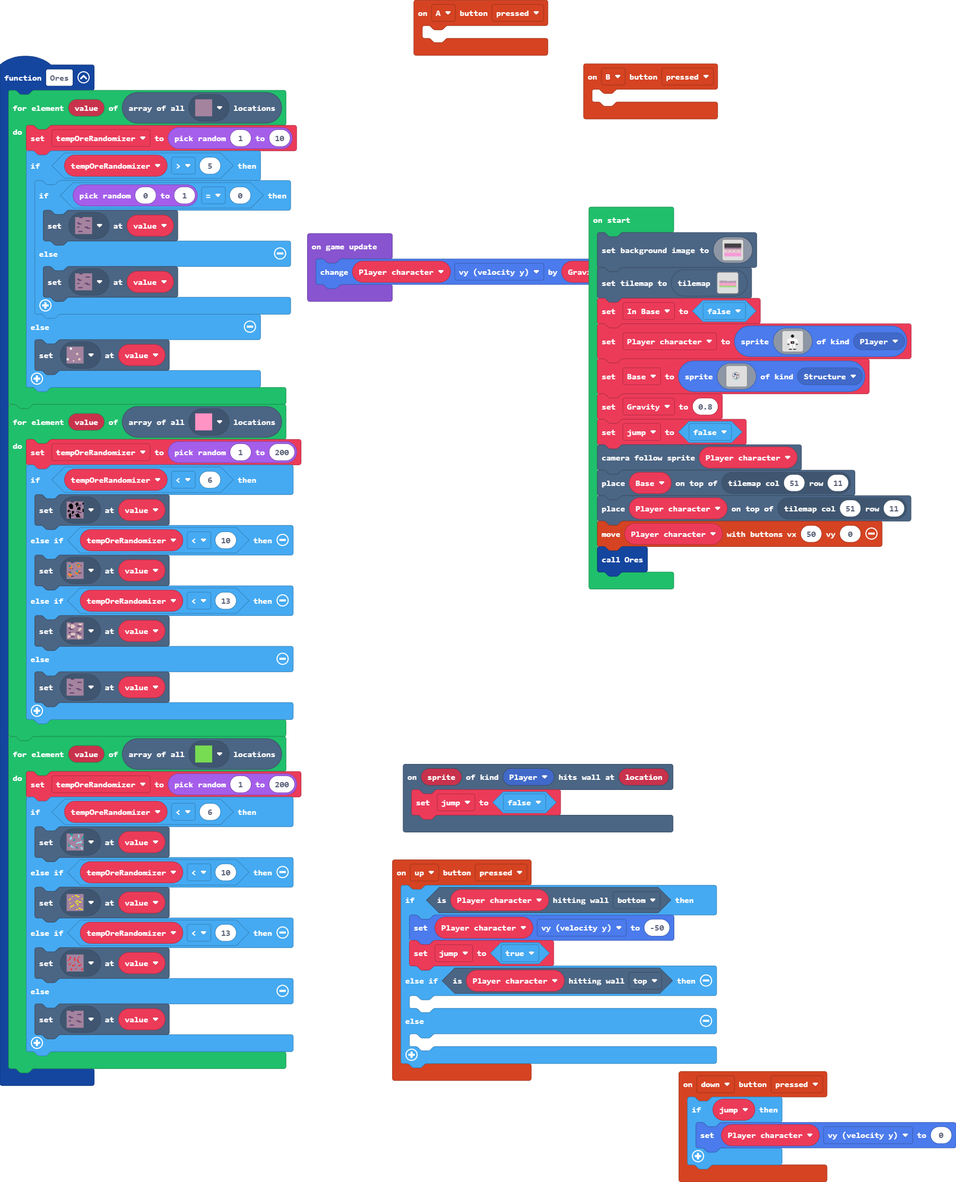
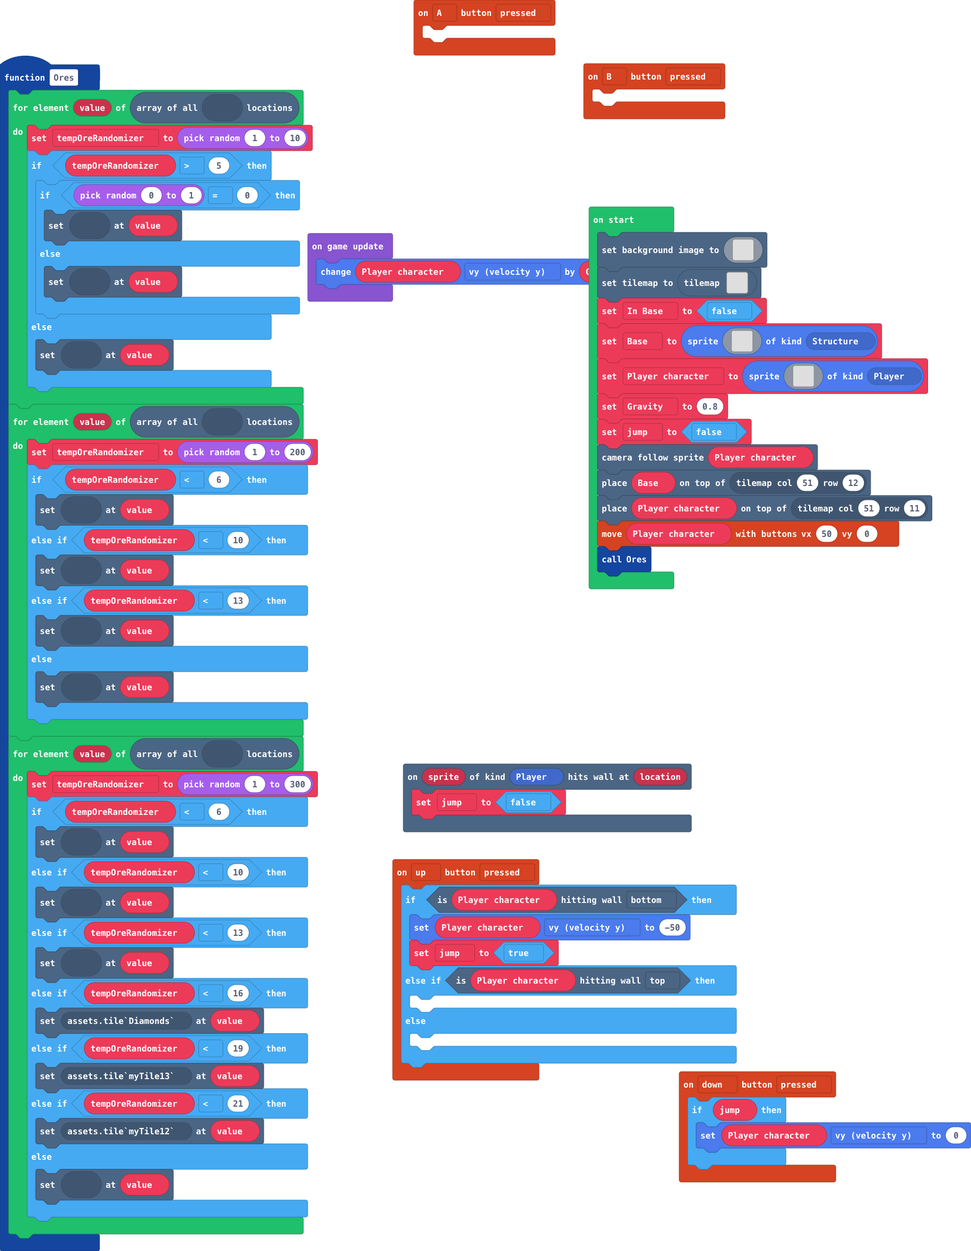
Update main.blocks, main.ts, tilemap.g.jres, tilemap.g.ts

diff --git a/tilemap.g.ts b/tilemap.g.ts
@@ -32,16 +32,6 @@ namespace myTiles {
     export const tile17 = image.ofBuffer(hex``);
     //% fixedInstance jres blockIdentity=images._tile
     export const tile8 = image.ofBuffer(hex``);
-    //% fixedInstance jres blockIdentity=images._tile
-    export const tile13 = image.ofBuffer(hex``);
-    //% fixedInstance jres blockIdentity=images._tile
-    export const tile14 = image.ofBuffer(hex``);
-    //% fixedInstance jres blockIdentity=images._tile
-    export const tile18 = image.ofBuffer(hex``);
-    //% fixedInstance jres blockIdentity=images._tile
-    export const tile19 = image.ofBuffer(hex``);
-    //% fixedInstance jres blockIdentity=images._tile
-    export const tile20 = image.ofBuffer(hex``);
 
     helpers._registerFactory("tilemap", function(name: string) {
         switch(helpers.stringTrim(name)) {
@@ -98,7 +88,7 @@ namespace myTiles {
 ..............................
 `, [myTiles.transparency16], TileScale.Sixteen);
             case "Planet part 1":
[1 lines of base64/hex data omitted]
+            case "level2":return tiles.createTilemap(hex`640032000000000000000000000000000000000000000000000000000000000000000000000000000000000000000000000000000000000000000000000000000000000000000000000000000000000000000000000000000000000000000000000000000000000000000000000000000000000000000000000000000000000000000000000000000000000000000000000000000000000000000000000000000000000000000000000000000000000000000000000000000000000000000000000000000000000000000000000000000000000000000000000000000000000000000000000000000000000000000000000000000000000000000000000000000000000000000000000000000000000000000000000000000000000000000000000000000000000000000000000000000000000000000000000000000000000000000000000000000000000000000000000000000000000000000000000000000000000000000000000000000000000000000000000000000000000000000000000000000000000000000000000000000000000000000000000000000000000000000000000000000000000000000000000000000000000000000000000000000000000000000000000000000000000000000000000000000000000000000000000000000000000000000000000000000000000000000000000000000000000000000000000000000000000000000000000000000000000000000000000000000000000000000000000000000000000000000000000000000000000000000000000000000000000000000000000000000000000000000000000000000000000000000000000000000000000000000000000000000000000000000000000000000000000000000000000000000000000000000000000000000000000000000000000000000000000000000000000000000000000000000000000000000000000000000000000000000000000000000000000000000000000000000000000000000000000000000000000000000000000000000000000000000000000000000000000000000000000000000000000000000000000000000000000000000000000000000000000000000000000000000000000000000000000000000000000000000000000000000000000000000000000000000000000000000000000000000000000000000000000000000000000000000000000000000000000000000000000000000000000000000000000000000000000000000000000000000000000000000000000000000000000000000000000000000000000000000000000000000000000000000000000000000000000000000000000000000000000000000000000000000000000000000000000000000000000000000000000000000000000000000000000000000000000000000000000000000000000000000000000000000000000000000000000000000000000000000000000000000000000000000000000000000000000000000000000000000000000000000000000000000000000102020202020203000000000000000000000000000000000000000000000000000000000000000000000000000000000000000000000000000000000000000000000000000000000000000000000000000000000102020000000000000102020202020204040404040404040202020202020202020203000000000000000102020300000000000000000000000000000000000000000000000000000000000102030000000000000000000000000000000000000202020204040400000000000104040404040404040404040404040404040404040404040404040202020202020204040404030000000000000000000000000000000000000000000000010202020204040402020202020300000000000001020202020404040404040404020202020204040404040404040404040404040404040404040404040404040404040404040404040404040402020202020202020202020202020202030000000000010404040404040404040404040404020202020202040404040404040404040404040404040404040404040404040404040404040404040404040404040404040404040404040404040404040404040404040404040404040404040404040402020202020404040404040404040404040404040404040404040404040404040404040404040404040404040404040404040404040404040404040404040404040404040404040404040404040404040404040404040404040404040404040404040404040404040404040404040404040404040404040404040404040404040404080404040404040404040404040404040404040404040404040404040404040404040404040404040404040404040404040404040404040404040404040404040404040404040404040404040404040404040404040404040404040404040404040404040404040404040404040404040404040404040404040404040404040404040404040404040404040404040404040404040404040404040404040404040404040404040404040404040404040404040404040404040404040404040404040404040404040404040404040404040405050505050505050505050505050505050505050505050505050505050505050505050505050505050505050505050505050505050505050505050505050505050505050505050505050505050505050505050505050505050505050505050505050505050505050505050505050505050505050505050505050505050505050505050505050505050505050505050505050505050505050505050505050505050505050505050505050505050505050505050505050505050505050505050505050505050505050505050505050505050505050505050505050505050505050505050505050505050505050505050505050505050505050505050505050505050505050505050505050505050505050505050505050505050505050505050505050505050505050505050505050505050505050505050505050505050505050505050505050505050505050505050505050505050505050505050505050505050505050505050505050505050505050505050505050505050505050505050505050505050505050505050505050505050505050505050505050505050505050505050505050505050505050505050505050505050505050505050505050505050505050505050505050505050505050505050505050505050505050505050505050505050505050505050505050505050505050505050505050505050505050505050505050505050505050505050505050505050505050505050505050505050505050505050505050505050505050505050505050505050505050505050505050505050505050505050505050505050505050505050506060606060606060606060606060606060606060606060606060606060606060606060606060606060606060606060606060606060606060606060606060606060606060606060606060606060606060606060606060606060606060606060606060606060606060606060606060606060606060606060606060606060606060606060606060606060606060606060606060606060606060606060606060606060606060606060606060606060606060606060606060606060606060606060606060606060606060606060606060606060606060606060606060606060606060606060606060606060606060606060606060606060606060606060606060606060606060606060606060606060606060606060606060606060606060606060606060606060606060606060606060606060606060606060606060606060606060606060606060606060606060606060606060606060606060606060606060606060606060606060606060606060606060606060606060606060606060606060606060606060606060606060606060606060606060606060606060606060606060606060606060606060606060606060606060606060606060606060606060606060606060606060606060606060606060606060606060606060606060606060606060606060606060606060606060606060606060606060606060606060606060606060606060606060606060606060606060606060606060606060606060606060606060606060606060606060606060606060606060606060606060606060606060606060606060606060606060606060606060606060606060606060606060606060606060606060606060606060606060606060606060606060606060606060606060606060606060606060606060606060606060606060606060606060606060606060606060606060606060606060606060606060606060606060606060606060606060606060606060606060606060606060606060606060606060606060606060606060606060606060606060606060606060606060606060606060606060606060606060606060606060606060606060606060606060606060606060606060606060606060606060606060606060606060606060606060606060606060606060606060606060606060606060606060606060606060606060606060606060606060606060606060606060606060606060606060606060606060606060606060606060606060606060606060606060606060606060606060606060606060606060606060606060606060606060606060606060606060606060606060606060606060606060606060606060606060606060606060606060606060606060606060606060606060606060606060606060606060606060606060606060606060606060606060606060606060606060606060606060606060606060606060606060606060606060606060606060606060606060606060606060606060606060606060606060606060606060606060606060606060606060606060606060606060606060606060606060606060606060606060606060606060606060606060606060606060606060606060606060606060606060606060606060606060606060606060606060606060606060606060606060606060606060606060606060606060606060606060606060606060606060606060606060606060606060606060606060606060606060606060606060606060606060606060606060606060606060606060606060606060606060606060606060606060606060606060606060606060606060606060606060606060606060606060606060606060606060606060606060606060606060606060606060606060606060606060606060606060606060606060606060606060606060606060606060606060606060606060606060606060606060606060606060606060606060606060606060606060606060606060606060606060606060606060606060606060606060606060606060606060606060606060606060606060606060606060606060606060606060606060606060606060606060606060606060606060606060606060606060606060606060606060606060606060606060606060606060606060606060606060606060606060606060606060606060606060606060606060606060606060606060606060606060606060606060606060606060606060606060606060606060606060606060606060606060606060606060606060606060606060606060606060606060606060606060606060606060606060606060606060606060606060606060606060606060606060606060707070707070707070707070707070707070707070707070707070707070707070707070707070707070707070707070707070707070707070707070707070707070707070707070707070707070707070707070707070707070707070707070707070707070707070707070707070707070707070707070707070707070707070707070707070707070707070707070707070707070707070707070707070707070707070707070707070707070707070707070707070707070707070707070707070707070707070707070707070707070707070707070707070707070707070707070707070707070707070707070707070707070707070707070707070707070707070707070707070707070707070707070707070707070707070707070707070707070707070707070707070707070707070707070707070707070707070707070707070707070707070707070707070707070707070707070707070707070707070707070707070707070707070707070707070707070707070707070707070707070707070707070707070707070707070707070707070707070707070707070707070707070707070707070707070707070707070707070707070707070707070707070707070707070707070707070707070707070707070707070707070707070707070707070707070707070707070707070707070707070707070707070707070707070707070707070707070707070707070707070707070707070707070707070707070707070707070707070707070707070707070707070707070707070707070707070707070707070707070707070707070707070707070707070707070707070707070707070707070707070707070707070707070707070707070707070707070707070707070707070707070707070707070707070707070707070707070707070707070707070707070707070707070707070707070707070707070707070707070707070707070707070707070707070707070707070707070707070707070707070707070707070707070707070707070707070707070707070707070707070707070707070707070707070707070707070707`, img`
 ....................................................................................................
 ....................................................................................................
 ....................................................................................................
@@ -149,7 +139,7 @@ namespace myTiles {
 2222222222222222222222222222222222222222222222222222222222222222222222222222222222222222222222222222
 2222222222222222222222222222222222222222222222222222222222222222222222222222222222222222222222222222
 2222222222222222222222222222222222222222222222222222222222222222222222222222222222222222222222222222
-`, [myTiles.transparency16,myTiles.tile1,myTiles.tile2,myTiles.tile3,myTiles.tile5,myTiles.tile7,myTiles.tile8,myTiles.tile9,myTiles.tile10,myTiles.tile18,myTiles.tile19,myTiles.tile20], TileScale.Sixteen);
+`, [myTiles.transparency16,myTiles.tile1,myTiles.tile2,myTiles.tile3,myTiles.tile5,myTiles.tile7,myTiles.tile8,myTiles.tile9,myTiles.tile10], TileScale.Sixteen);
         }
         return null;
     })
@@ -187,16 +177,6 @@ namespace myTiles {
             case "tile17":return tile17;
             case "myTile6":
             case "tile8":return tile8;
-            case "myTile10":
-            case "tile13":return tile13;
-            case "myTile11":
-            case "tile14":return tile14;
-            case "Diamonds":
-            case "tile18":return tile18;
-            case "myTile12":
-            case "tile19":return tile19;
-            case "myTile13":
-            case "tile20":return tile20;
         }
         return null;
     })

diff --git a/main.ts b/main.ts
@@ -46,12 +46,18 @@ function Ores () {
         }
     }
     for (let value of tiles.getTilesByType(assets.tile`myTile7`)) {
-        tempOreRandomizer = randint(1, 200)
+        tempOreRandomizer = randint(1, 300)
         if (tempOreRandomizer < 6) {
-            tiles.setTileAt(value, assets.tile`Diamonds`)
+            tiles.setTileAt(value, assets.tile`Coal`)
         } else if (tempOreRandomizer < 10) {
-            tiles.setTileAt(value, assets.tile`myTile13`)
+            tiles.setTileAt(value, assets.tile`Copper`)
         } else if (tempOreRandomizer < 13) {
+            tiles.setTileAt(value, assets.tile`Iron`)
+        } else if (tempOreRandomizer < 16) {
+            tiles.setTileAt(value, assets.tile`Diamonds`)
+        } else if (tempOreRandomizer < 19) {
+            tiles.setTileAt(value, assets.tile`myTile13`)
+        } else if (tempOreRandomizer < 21) {
             tiles.setTileAt(value, assets.tile`myTile12`)
         } else {
             tiles.setTileAt(value, assets.tile`Stone`)
@@ -190,6 +196,104 @@ scene.setBackgroundImage(img`
     `)
 tiles.setCurrentTilemap(tilemap`Planet part 1`)
 let In_Base = false
+let Base = sprites.create(img`
+    ................................................................................................
+    ................................................................................................
+    ................................................................................................
+    ................................................................................................
+    ................................................................................................
+    ................................................................................................
+    ................................................................................................
+    ................................................................................................
+    ................................................................................................
+    ................................................................................................
+    ................................................................................................
+    ................................................................................................
+    ................................................................................................
+    ................................................................................................
+    ................................................................................................
+    ................................................................................................
+    ................................................................................................
+    ................................................................................................
+    ..................................................................fffffffff.....................
+    ................................................................ff888888888ff...................
+    ...............................................................f8888888888888f..................
+    ..............................................................f888888888888888f.................
+    .............................................................f88888888888888888f................
+    ............................................................f8888888888888888888f...............
+    ............................................................f8888888888888888888f...............
+    ...........................................................f888888888888888888888f..............
+    ...........................................................f888888888888888888888f..............
+    ...........................................................f888888888888888888888f..............
+    ...........................................................f888888888888888888888f..............
+    ...........................................................f888888888888888888888f..............
+    ...........................................................f888888888888888888888f..............
+    ...........................................................f888888888888888888888f..............
+    ......ffffffffffffffffffffffffffffffffffffffffffffffffffffff888888888888888888888fffffff........
+    ......f1111111111111111111111111111111111111111111111111111f888888888888888888888f11111f........
+    ......f11111111111111111111111111111111111111111111111111111f8888888888888888888f111111f........
+    ......f11111111111111111111111111111111111111111111111111111f8888888888888888888f111111f........
+    ......f111111111111111111111111111111111111111111111111111111f88888888888888888f1111111f........
+    ......f1111111111111111111111111111111111111111111111111111111f888888888888888f11111111f........
+    ......f11111111111111111111fffffffff111111111111111111111111111f8888888888888f111111111f........
+    ......f111111111111111111ff888888888ff11111111111111111111111111ff888888888ff1111111111f........
+    ......f11111111111111111f8888888888888f111111111111111111111111111fffffffff111111111111f........
+    ...fffffff1111111111111f888888888888888f11111111111111111111111111111111111111111111111f........
+    ..f8888888f11111111111f88888888888888888f1111111111111111111111111111111111111111111111f........
+    .f888888888f111111111f8888888888888888888f111111111111111111111111111111111111111111111f........
+    .f888888888f111111111f8888888888888888888f111111111111111111111111111111ffffffffffffff1f........
+    .f888888888f11111111f888888888888888888888f11111111111111111111111111111f111111111111f1f........
+    .f888888888f11111111f888888888888888888888f11111111111111111111111111111f11aaa1221111f1f........
+    .f888888888f11111111f888888888888888888888f11111111111111111111111111111f11aaa1221661f1f........
+    .f888888888f11111111f888888888888888888888f11111111111111111111111111111f11aaa1111661f1f........
+    .f888888888f11111111f888888888888888888888f1111111ffffffffffffffff111111f111111111111f1f........
+    ..f8888888f111111111f888888888888888888888f1111111fddddddddddddddf111111ffffffffffffff1f........
+    ...fffffff1111111111f888888888888888888888f1111111fddddddddddddddf111111111111111111111f........
+    ......f1111111111111f888888888888888888888f1111111fddddddddddddddf111111111111111111111f........
+    ......f1111111111111f888888888888888888888f1111111fddddddddddddddf111111111111111111111f........
+    ......f11111111111111f8888888888888888888f11111111fddddddddddddddf111111111111111111111f........
+    ......f11111111111111f8888888888888888888f11111111fddddddddddddddf111111111111111fffffff........
+    ......f111111111111111f88888888888888888f111111111fddddddddddddddf1111111111111ff8888888ff......
+    ......f1111111111111111f888888888888888f1111111111fddddddddddddddf111111111111f88888888888f.....
+    ......f11111111111111111f8888888888888f11111111111fddddddddddddddf111111111111f88888888888f.....
+    ......f1111111fffffff1111ff888888888ff111111111111fddddddddddddddf11111111111f8888888888888f....
+    ......f111111f1111111f11111fffffffff11111111111111fddddddddddddddf11111111111f8888888888888f....
+    ......f11111f111111111f111111111111111111111111111fddddddddddddddf11111111111f8888888888888f....
+    ......f1111f112221aaa11f11111111111111111111111111fddddddddddddddf11111111111f8888888888888f....
+    ......f1111f112221aaa11f11111111111111111111111111fddddddddddddddf11111111111f8888888888888f....
+    ......f1111f112221aaa11f11111111111111111111111111fddddddddddddddf11111111111f8888888888888f....
+    ......f1111f11111111111f11111111111111111111111111fddddddddddddddf11111111111f8888888888888f....
+    ......f1111f11888141511f11111111111111111111111111fddddddddddddddf111111111111f88888888888f.....
+    ......f1111f11888111111f11111111111111111111111111fddddddddddddddf111111111111f88888888888f.....
+    ......f1111f11888121711f11111111111111111111111111fddddddddddddddf1111111111111ff8888888ff......
+    ......f11111f111111111f111111111111111111111111111fddddddddddddddf111111111111111fffffff........
+    ......f111111f1111111f1111111111111111111111111111fddddddddddddddf111111111111111111111f........
+    ......f1111111fffffff11111111111111111111111111111fddddddddddddddf111111111111111111111f........
+    ......f1111111111111111111111111111111111111111111fddddddddddddddf111111111111111111111f........
+    ......ffffffffffffffffffffffffffffffffffffffffffffffffffffffffffffffffffffffffffffffffff........
+    ................................................................................................
+    ................................................................................................
+    ................................................................................................
+    ................................................................................................
+    ................................................................................................
+    ................................................................................................
+    ................................................................................................
+    ................................................................................................
+    ................................................................................................
+    ................................................................................................
+    ................................................................................................
+    ................................................................................................
+    ................................................................................................
+    ................................................................................................
+    ................................................................................................
+    ................................................................................................
+    ................................................................................................
+    ................................................................................................
+    ................................................................................................
+    ................................................................................................
+    ................................................................................................
+    ................................................................................................
+    `, SpriteKind.Structure)
 Player_character = sprites.create(img`
     ................
     .......11.......
@@ -212,52 +316,10 @@ Player_character = sprites.create(img`
     ....111..111....
     ....fff..fff....
     `, SpriteKind.Player)
-let Base = sprites.create(img`
-    ............................................................
-    ............................................................
-    ............................................................
-    ............................................................
-    ............................................................
-    ............................................................
-    ............................................................
-    .......................fffffffff............................
-    .....................ff111111111ff..........................
-    ....................f1111111111111f.........................
-    ...................f111111111111111f........................
-    ..................f11ffffffff1111111f.......................
-    .................f111f888888f11111111f......................
-    .................f111f888888f11111111f......................
-    ................f1111f888888f1ffffff11f.....................
-    ................f1111f888888f1f211af11f.....................
-    ................f1111ffffffff1f12a1f11f.....................
-    ................f1111111111111f1a21f11f.....................
-    ................f1111111111111fa112f11f.....................
-    ................f1111111111111ffffff11f.....................
-    ................f11fffff11111111111111f.....................
-    ................f11f888f11111111111111f.....................
-    ................f11fffff1111ffff111111f.....................
-    .................f1111111111fbbf11111f......................
-    .................f1111111111fbbf11111f......................
-    ..................f111111111fbbf1111f.......................
-    ...................f11111111fbbf111f........................
-    ....................f1111111ffff11f.........................
-    .....................ff111111111ff..........................
-    .......................fffffffff............................
-    ............................................................
-    ............................................................
-    .......................999999999............................
-    ......................9.........9...........................
-    ......................9.........9...........................
-    .......................999999999............................
-    ............................................................
-    ............................................................
-    ............................................................
-    ............................................................
-    `, SpriteKind.Structure)
 let Gravity = 0.8
 jump = false
 scene.cameraFollowSprite(Player_character)
-tiles.placeOnTile(Base, tiles.getTileLocation(51, 11))
+tiles.placeOnTile(Base, tiles.getTileLocation(51, 12))
 tiles.placeOnTile(Player_character, tiles.getTileLocation(51, 11))
 controller.moveSprite(Player_character, 50, 0)
 Ores()
